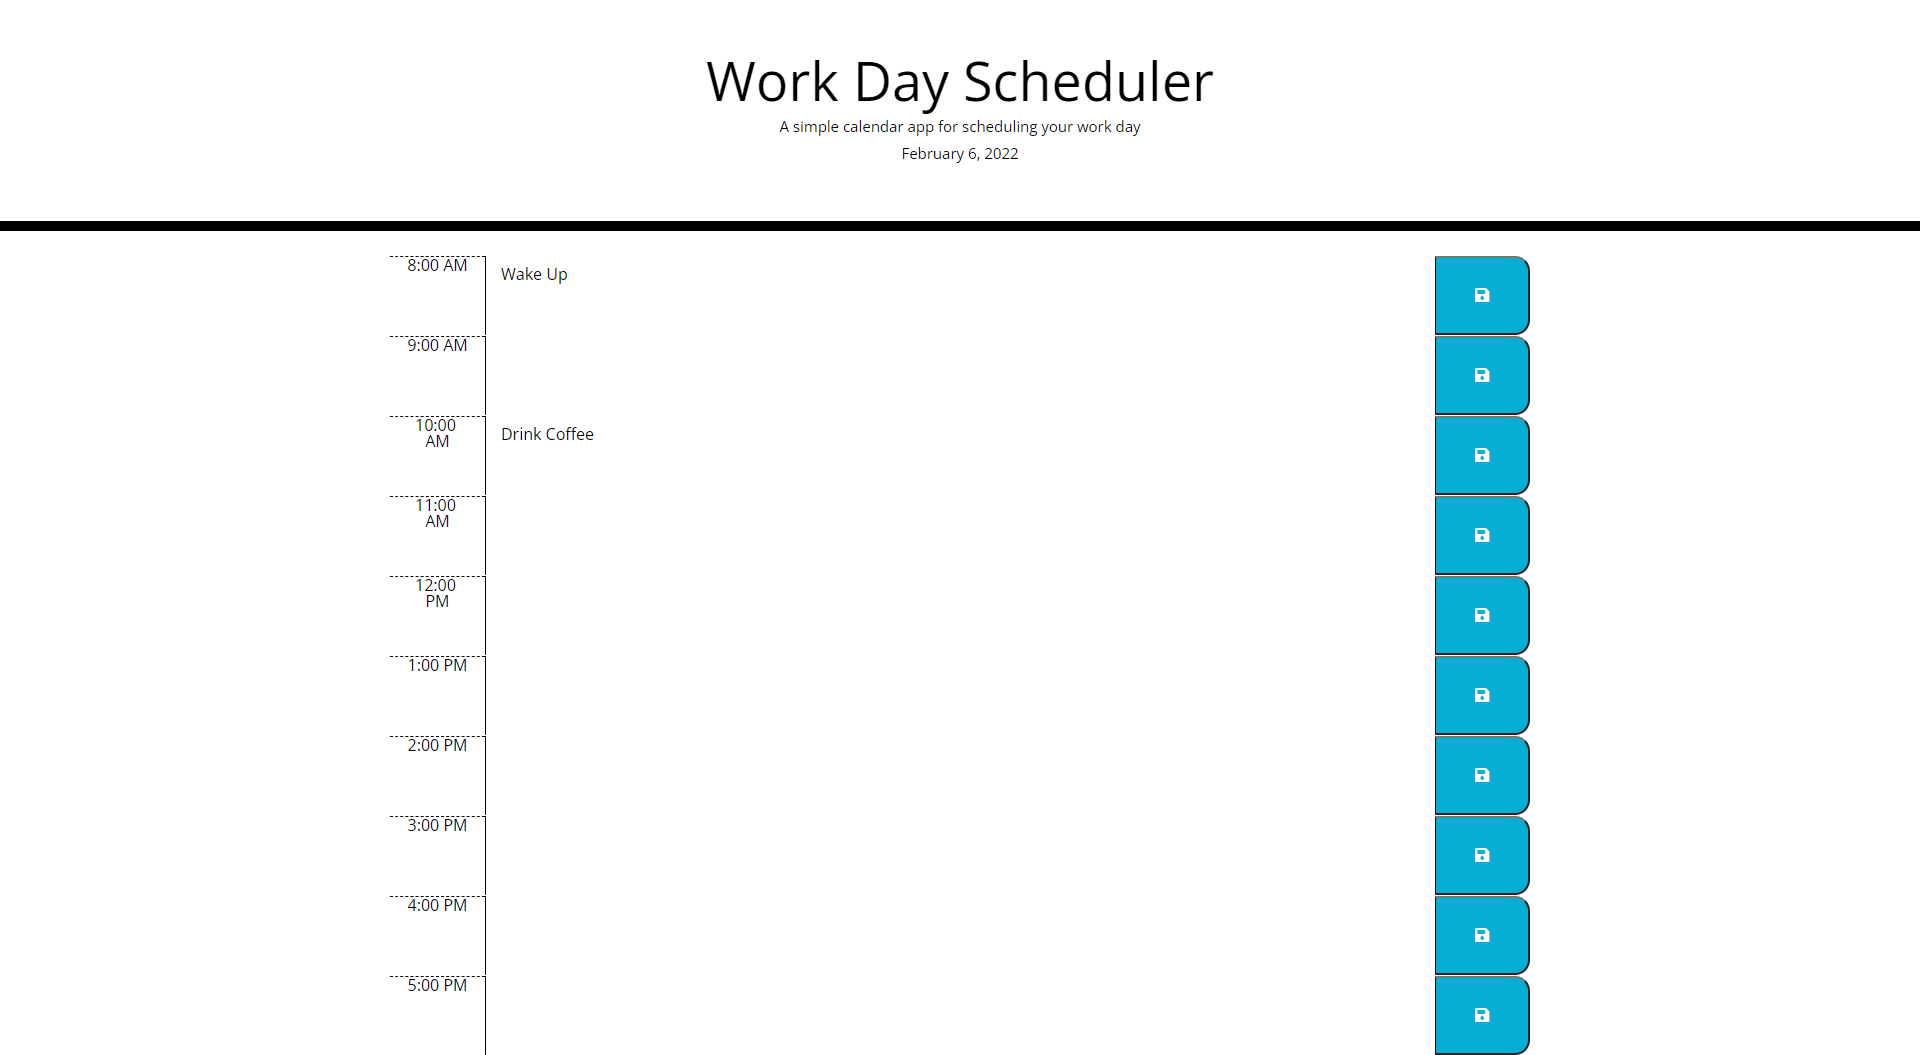
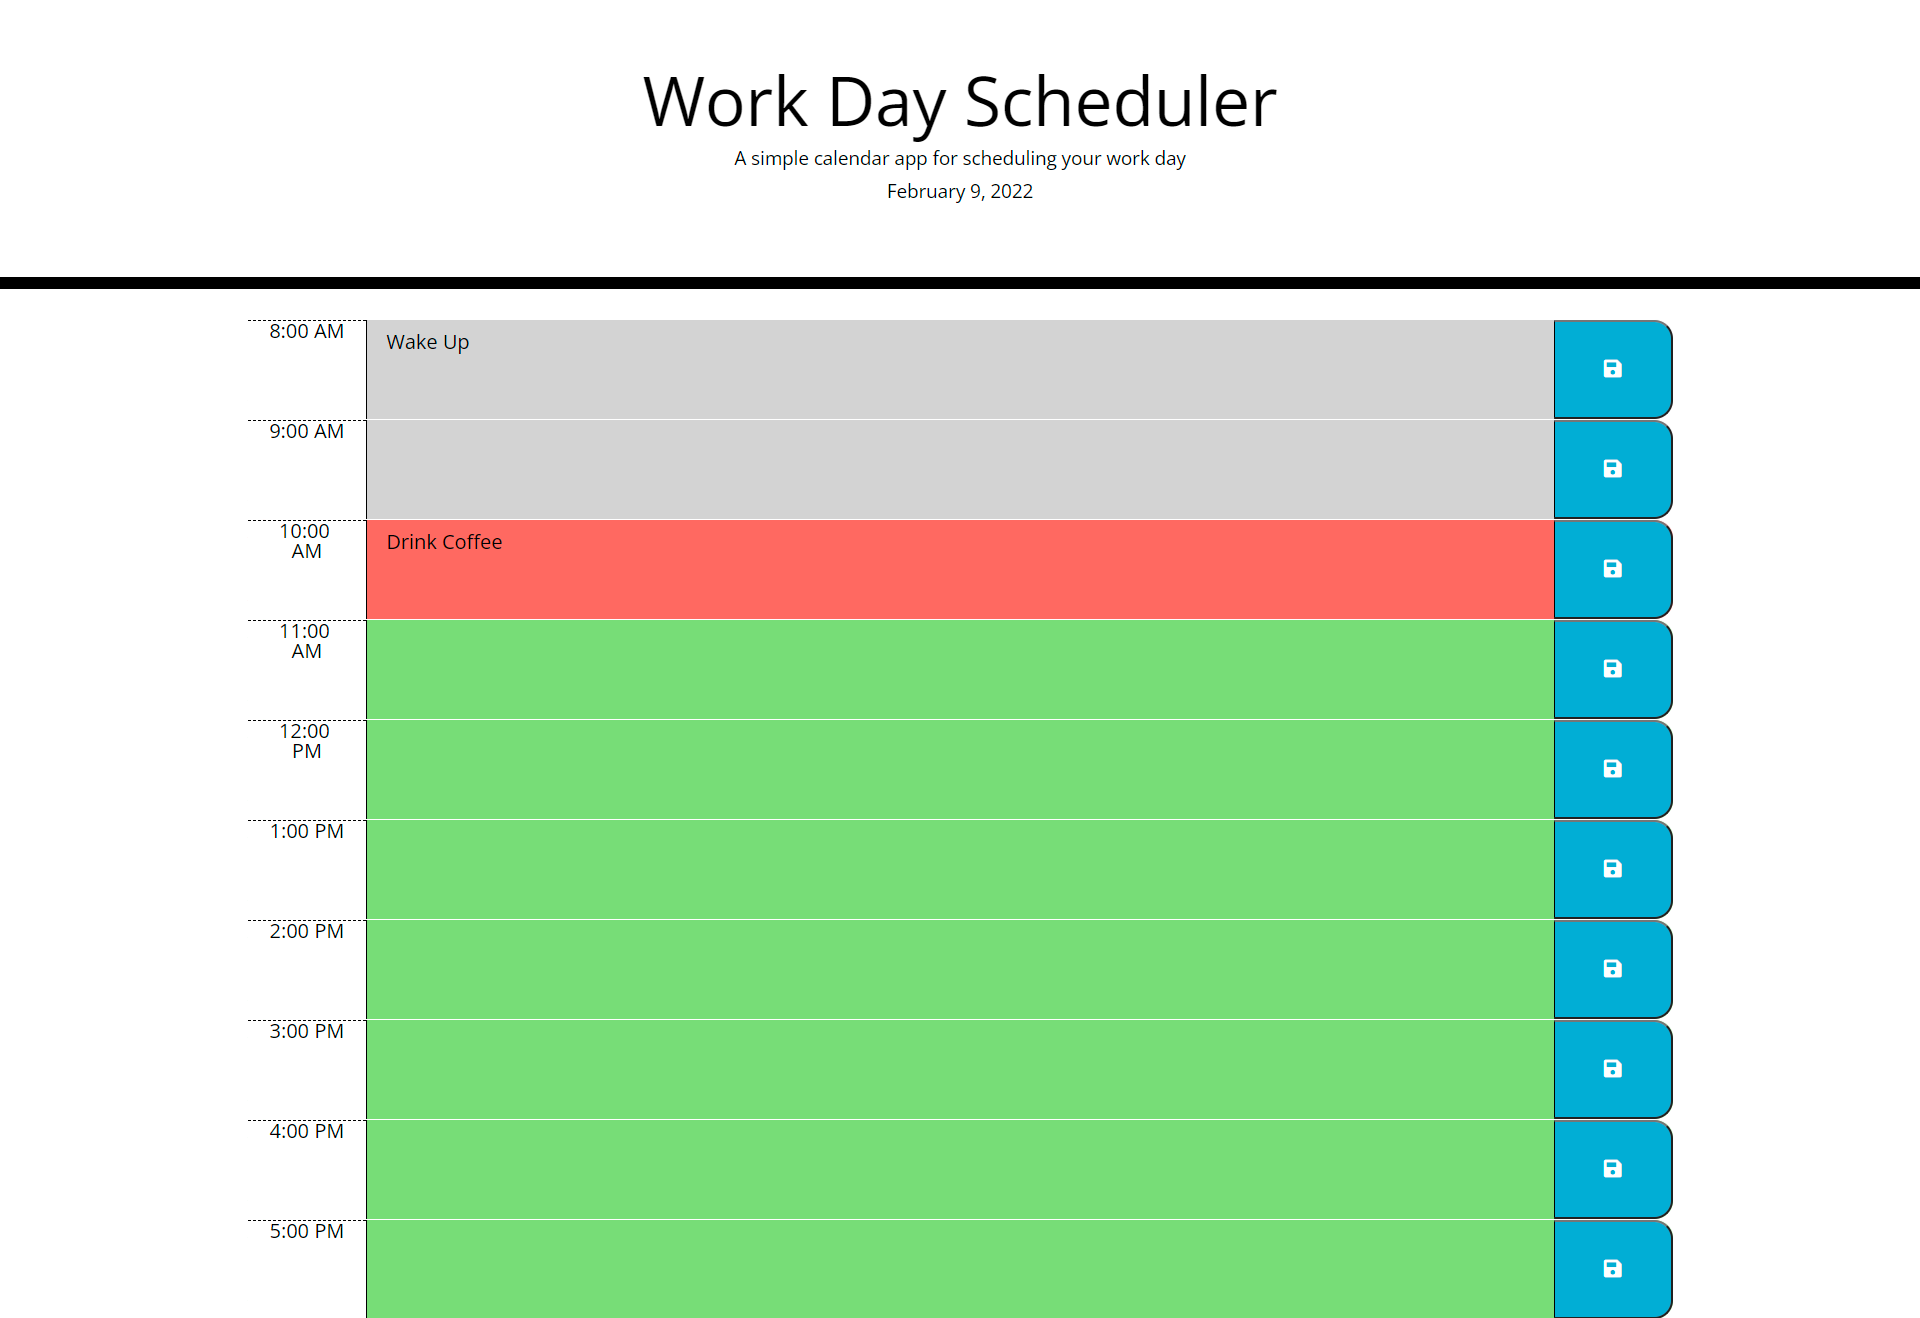
updated JS

diff --git a/script.js b/script.js
@@ -15,7 +15,7 @@ $(".saveBtn").on("click", function() {
     var time = $(this).parent().attr("id");
 
     localStorage.setItem(time, text);
-});
+
 
 $("#8 .description").val(localStorage.getItem("8"));
 $("#9 .description").val(localStorage.getItem("9"));
@@ -28,3 +28,27 @@ $("#15 .description").val(localStorage.getItem("15"));
 $("#16 .description").val(localStorage.getItem("16"));
 $("#17 .description").val(localStorage.getItem("17"));
 
+});
+
+
+var currentTime = new Date();
+
+var hours = currentTime.getHours();
+
+$(".time-block").each(function () {
+    var time = parseInt($(this).attr("id"))
+  
+    if (time === hours) {
+      $(this).addClass("present");
+      $(this).removeClass("past");
+      $(this).removeClass("future");
+    } else if (time < hours) {
+      $(this).addClass("past");
+      $(this).removeClass("present");
+      $(this).removeClass("future");
+    } else {
+      $(this).addClass("future");
+      $(this).removeClass("present");
+      $(this).removeClass("past");
+    }
+  });
